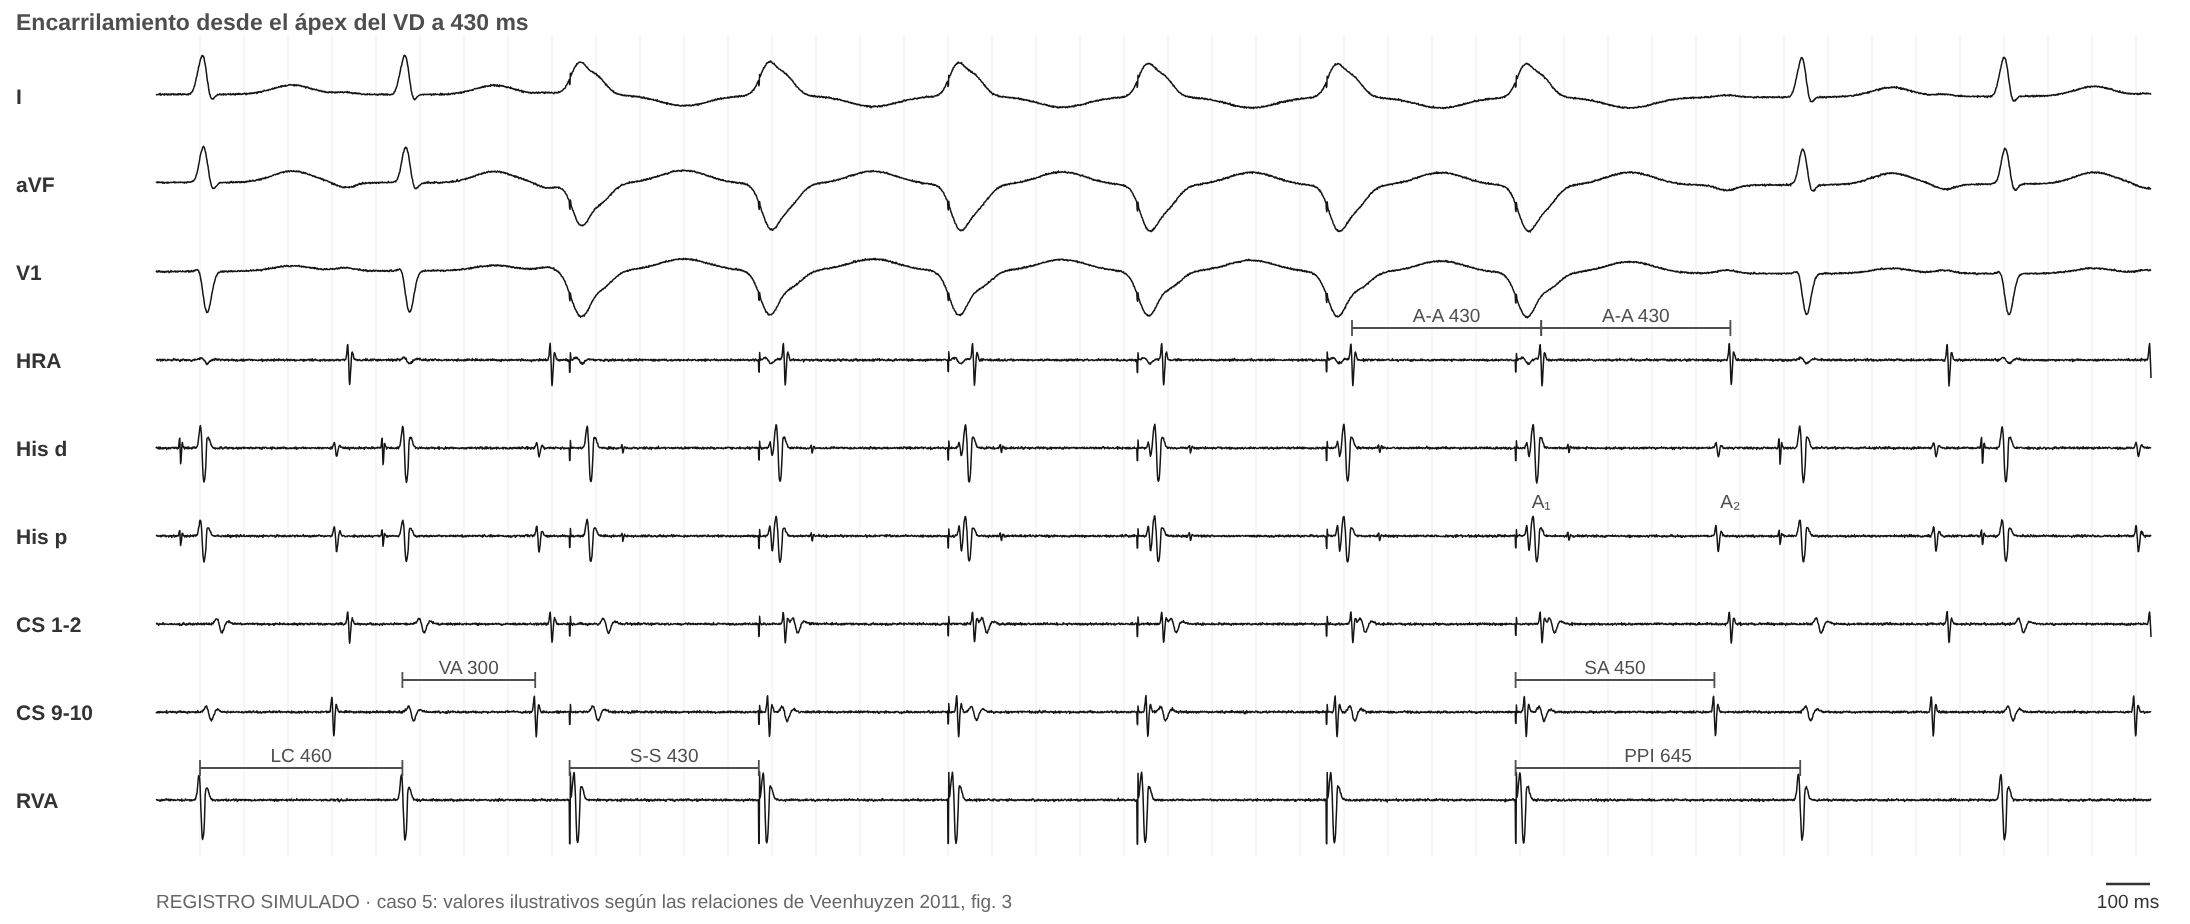
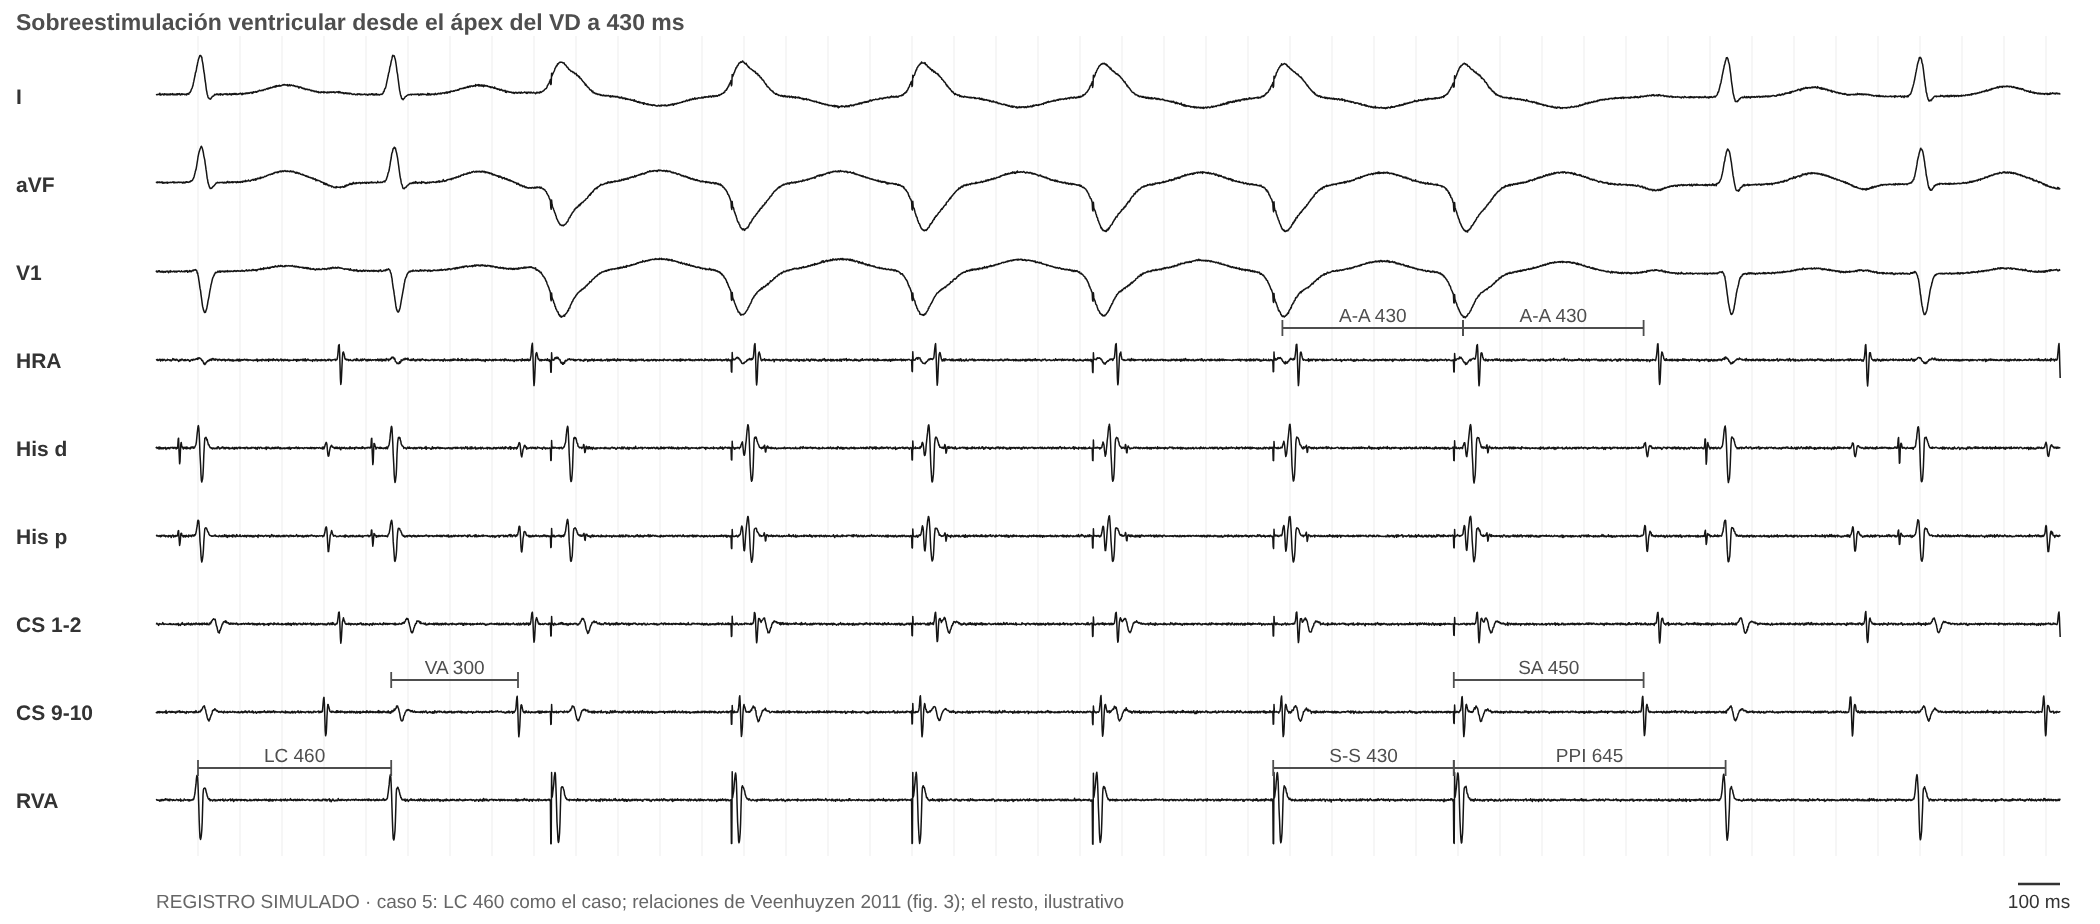
Caso 5 en el formato nuevo: todas las maniobras simuladas, valores durante el análisis y devolución paso a paso
Claude-Session: https://claude.ai/code/session_01Pw5rjt62KK5LeJZoEyFiaM

diff --git a/index.html b/index.html
@@ -313,7 +313,7 @@ dialog::backdrop{background:rgba(0,0,0,.45)}
 
 <div id="visor" hidden role="dialog" aria-label="Imagen ampliada"><div class="vbar"><button type="button" class="vm" aria-label="Achicar">−</button><button type="button" class="vp" aria-label="Agrandar">+</button><button type="button" class="vf">Ajustar</button><button type="button" class="vx">✕ Cerrar</button></div><div class="vbox"><img alt=""></div></div>
 <script>
-const APPV = 152;   // igual al número de CACHE_VERSION de sw.js
+const APPV = 153;   // igual al número de CACHE_VERSION de sw.js
 // ===============================================================================================================
 // Referencias. "propia" = artículo del material base; las demás se citan a través de esas revisiones.
 // ===============================================================================================================
@@ -1328,16 +1328,19 @@ const PCASOS = [
       eha: { v: 'EA desde el ostium del SC con el His refractario: el His siguiente sale a su tiempo (H-H 340).', r: 'No modifica el His: esperable en la TRAV.', u: 'util', img: 'figs/sim/prac/p4_eha.png' } },
     dx: ['trav_l'], ex: 'La activación excéntrica (SC 1-2) y el efecto Coumel (el VA se alarga 35 ms con BRI funcional) apuntan a una vía libre izquierda; la respuesta A-V, el VA linking y la terminación con una A excluyen la TA. Desde el ápex del VD el PPI−LC, el cPPI−LC y el SA−VA caen en rango de TRNAV por la distancia a la vía, y la para-Hisiana da nodal: son engañosas. El encarrilamiento diferencial (ΔVA −10) y la EV con His refractario desde el VI basal, que adelanta la A 20 ms, confirman la TRAV.', refs: ['veen11', 'knight00', 'veen12'] },
   { id: 'c5', t: 'TSV de RP largo con "A-A-V"', p: 'Mujer de 22 años con TSV de RP largo.',
-    ecg: 'figs/sim/casos/c5_ecg.jpg', ecgReal: true, basal: 'figs/sim/casos/c5_basal.png', ind: 'figs/sim/casos/c5_ind.png',
-    h: ['TSV de QRS angosto, LC 460 ms, relación 1:1', 'VA 300 ms (RP largo)', 'Activación concéntrica, más precoz en el ostium del SC'],
-    m: { vop: { r: 'Estimulando a 430 ms, después de la última espiga hay dos A antes del V. Entre ellas hay 430 ms y la secuencia es idéntica a la de la TSV.', u: 'clave', img: 'figs/sim/prac/p5_vop.png' },
-      medidas: { r: 'PPI 645 (PPI−LC 185), cPPI−LC 185, SA 450 (SA−VA 150).', u: 'clave', img: 'figs/sim/prac/p5_vop.png' },
-      ehr: { r: 'No modifica la A, aun adelantando el V local más de 60 ms cerca del ostium del SC.', u: 'clave', img: 'figs/sim/prac/p5_ehr.png' },
-      diff: { r: 'ΔVA (base − ápex) +30 ms.', u: 'util' },
-      aop: { r: 'ΔAH 55 ms; el AH de la TSV es más corto que en sinusal.', u: 'util' },
-      pre: { r: 'Doble fisiología nodal con salto AH de 65 ms.', u: 'util' },
-      ado: { r: 'La TSV termina con un V (bloqueo en el brazo retrógrado).' }, parahis: { r: 'Respuesta nodal.' } },
-    dx: ['trnav_a'], ex: 'Es un seudo A-A-V: el SA (450) supera la LC de estimulación (430), así que A₂ es el último A acelerado y la respuesta es A-V. PPI−LC > 125 y SA−VA > 85 con EV-HR negativa y ΔAH > 40 indican TRNAV atípica rápida-lenta.', refs: ['veen11', 'ho15', 'man95'] },
+    ecg: 'figs/sim/casos/c5_ecg.jpg', ecgReal: true, basal: 'figs/sim/casos/c5_basal.png', ind: 'figs/sim/casos/c5_ind.png', indt: 'Extraestímulo ventricular S1-S2 600-320',
+    h: ['TSV de QRS angosto, LC 460 ms, relación AV 1:1', 'Protocolo: extraestímulo ventricular desde el ápex del VD, S1-S2 600-320'],
+    hk: ['RP largo: VA 300 ms con la A más precoz en el ostium del SC. El diferencial es TRNAV atípica, TRAV por una vía septal decremental (PJRT) y TA septal baja.', 'Inducción con salto de la conducción retrógrada: con S2 320 el SA pasa de 120 a 300 ms y empieza la taquicardia con ese mismo VA (la retrógrada pasa a la vía lenta).'],
+    m: { vop: { v: 'Estimulando el ápex del VD a 430 ms las A se aceleran a 430 con la misma secuencia. SA 450 ms. Al cortar, después de la última espiga hay dos A (separadas por 430 ms) antes del V.', r: 'Seudo A-A-V: el SA (450) es mayor que la LC de estimulación (430), así que la primera de esas dos A es de la espiga anterior y la segunda es la última A acelerada. Contada desde la última A acelerada, la respuesta es A-V: excluye la TA.', u: 'clave', img: 'figs/sim/prac/p5_vop.png' },
+      medidas: { v: 'PPI 645 ms con LC 460 (PPI−LC 185). AH 115 en la TSV y 150 en el primer latido de retorno (cPPI−LC 150). SA 450 ms con VA 300 (SA−VA 150). HA 345 en la TSV y 370 estimulando (ΔHA +25).', r: 'PPI−LC > 115, cPPI−LC > 110, SA−VA > 85 y ΔHA > −10: el ventrículo no está en el circuito y His y A se activan en serie. TRNAV atípica, no PJRT.', u: 'clave', img: 'figs/sim/prac/p5_medidas.png' },
+      diff: { v: 'Encarrilando a 430 ms: SA 450 desde el ápex y SA 480 desde la base del VD (VA 300). ΔVA (base − ápex) +30 ms.', r: 'ΔVA > 20 ms: desde la base el frente tarda más en llegar a la A porque tiene que bajar a la red de Purkinje y subir por el His y el nodo. TRNAV atípica, no una vía septal.', u: 'clave', img: 'figs/sim/prac/p5_diff.png' },
+      ehr: { v: 'EV con el His refractario, 70 ms antes del V esperado: la A siguiente no cambia (A-A 460) y la taquicardia sigue.', r: 'Con el His refractario, la EV no mueve la A: no hay una vía septal en el circuito (en la PJRT la habría adelantado o retrasado, o habría terminado la taquicardia).', u: 'clave', img: 'figs/sim/prac/p5_ehr.png' },
+      aop: { v: 'Estimulando la AD alta a 420 ms los V se aceleran a 420 (V-V 420) con AH 170 (en la TSV, 115). Al cortar, el VA del primer latido es 300 ms, igual al de la TSV.', r: 'VA linking: la A de retorno depende del V; excluye la TA septal baja. ΔAH (estimulando − TSV) 55 ms > 40: TRNAV.', u: 'clave', img: 'figs/sim/prac/p5_aop.png' },
+      pre: { v: 'Extraestímulo auricular desde la AD alta: S1-S2 600-340 y 600-330.', r: 'AH 160 → 225 al acortar el S2 10 ms: salto de 65 ms, doble fisiología nodal.', u: 'util', img: 'figs/sim/prac/p5_pre.png' },
+      ado: { v: 'La taquicardia termina: el último latido es un V que no conduce a la A.', r: 'Termina con bloqueo en la vía lenta retrógrada: excluye la TA.', u: 'util', img: 'figs/sim/prac/p5_ado.png' },
+      parahis: { v: 'En sinusal, con captura del His: SA 90 y QRS 95. Solo V: SA 140 y QRS 150. Misma secuencia auricular.', r: 'Respuesta nodal: no hay una vía septal conduciendo en sinusal.', u: 'util', img: 'figs/sim/prac/p5_parahis.png' },
+      eha: { v: 'EA desde el ostium del SC con el His refractario: el His siguiente sale a su tiempo (H-H 460).', r: 'No modifica el His.', u: 'util', img: 'figs/sim/prac/p5_eha.png' } },
+    dx: ['trnav_a'], ex: 'La inducción con salto de la conducción retrógrada y el RP largo con la A precoz en el ostium del SC plantean TRNAV atípica, PJRT o TA. La respuesta es un seudo A-A-V (SA 450 > LC de estimulación 430): contada desde la última A acelerada es A-V, y el VA linking también excluye la TA. PPI−LC 185, SA−VA 150, ΔHA +25 y ΔVA +30 indican que el ventrículo no está en el circuito, y la EV con His refractario no mueve la A: TRNAV atípica.', refs: ['veen11', 'ho15', 'man95'] },
   { id: 'c6', t: 'Taquicardia incesante y miocardiopatía', p: 'Niño de 6 años con taquicardia incesante y FEVI de 35 %. ECG: P negativa en las inferiores, RP largo.',
     ecg: 'figs/sim/casos/c6_ecg.jpg', ecgReal: true, basal: 'figs/sim/casos/c6_basal.png', ind: 'figs/sim/casos/c6_ind.png',
     h: ['TSV de QRS angosto, LC 300 ms, relación 1:1', 'VA 190 ms, HA 235 ms', 'A más precoz en el ostium del SC'],

diff --git a/sw.js b/sw.js
@@ -1,6 +1,6 @@
 // Permite instalar la app y abrirla sin conexión. Primero la red (siempre lo último publicado); si no hay, la copia.
 // Si cambiás un archivo, subí CACHE_VERSION.
-const CACHE_VERSION = 'mef-v152';
+const CACHE_VERSION = 'mef-v153';
 const ARCHIVOS = ['./', './index.html', './manifest.json', './iconos/icon-192.png', './iconos/icon-512.png'];
 self.addEventListener('install', e => e.waitUntil(caches.open(CACHE_VERSION).then(c => c.addAll(ARCHIVOS)).then(() => self.skipWaiting())));
 self.addEventListener('activate', e => e.waitUntil(caches.keys().then(ks => Promise.all(ks.filter(k => k !== CACHE_VERSION).map(k => caches.delete(k)))).then(() => self.clients.claim())));

diff --git a/herramientas/simulador/cases6.py b/herramientas/simulador/cases6.py
@@ -489,6 +489,126 @@ S['p4_eha'] = dict(win=(-100, vs[-1] + 250), pxms=0.25, title='EA con His refrac
     cal=[(hs[2], hs[3], 'His d', f'H-H {LC4}'), (hs[3], hs[4], 'His d', f'H-H {LC4}')],
     marks=[(apb, 'V1', 'EA')])
 
+# =====================================================================================================
+# Caso 5 (TRNAV atípica rápida-lenta; LC 460 como el ECG real, VA 300, AH 115, A más precoz en el ostium del SC).
+# Relaciones de Veenhuyzen 2011, fig. 3: SA > LC de estimulación (seudo A-A-V), SA−VA 150, PPI−LC 185.
+SRC5 = 'caso 5: LC 460 como el caso; relaciones de Veenhuyzen 2011 (fig. 3); el resto, ilustrativo'
+LC5, VA5, AH5, SC5, SA5, PPI5 = 460, 300, 115, 430, 450, 645
+HAp5 = 370                              # HA estimulando (His retrógrado 80 ms después de la espiga)
+AHr5 = PPI5 - SA5 - HV                  # 150: AH del primer latido de retorno
+
+
+def vop5(title, med):
+    svt = [0, LC5]
+    sp = [svt[-1] + 380 + SC5 * k for k in range(6)]
+    A = [v + VA5 for v in svt] + [s + SA5 for s in sp]
+    ret = sp[-1] + PPI5
+    after = [ret, ret + LC5]
+    cal = [(svt[0], svt[1], 'RVA', f'LC {LC5}'), (svt[1], svt[1] + VA5 + 2, 'CS 9-10', f'VA {VA5}'), (sp[-2], sp[-1], 'RVA', f'S-S {SC5}'),
+           (sp[-1], A[-1] + 2, 'CS 9-10', f'SA {SA5}'), (sp[-1], ret + 2, 'RVA', f'PPI {PPI5}'),
+           (A[-3] + 2, A[-2] + 2, 'HRA', f'A-A {SC5}'), (A[-2] + 2, A[-1] + 2, 'HRA', f'A-A {SC5}')]
+    marks = []
+    if med:
+        cal = [c for c in cal if not c[3].startswith(('S-S', 'A-A'))]
+        cal += [(svt[1] - HV, svt[1] + VA5, 'His p', f'HA {HV + VA5}'), (sp[-1] + SA5 - HAp5, A[-1], 'His p', f'HA {HAp5}'),
+                (A[-1] + 2, ret - HV, 'His d', f'AH {AHr5}'), (A[0] + 2, svt[1] - HV, 'His d', f'AH {AH5}')]
+        marks = [(sp[-1] + 200, 'I', f'SA − VA = {SA5} − {VA5} = {SA5 - VA5} ms'), (sp[-1] + 200, 'aVF', f'PPI − LC = {PPI5} − {LC5} = {PPI5 - LC5} ms'),
+                 (sp[-1] + 200, 'V1', f'cPPI − LC = {PPI5 - LC5} − ({AHr5} − {AH5}) = {PPI5 - LC5 - AHr5 + AH5} ms · ΔHA = {HAp5} − {HV + VA5} = +{HAp5 - HV - VA5} ms')]
+    return dict(win=(-100, after[-1] + 340), pxms=0.21, title=title, channels=CH6, src=SRC5,
+        beats=[(v, 'n') for v in svt + after] + [(s, 'pa') for s in sp], spikes=sp,
+        atr=[(a, 'conc_cs', -1) for a in A + [v + VA5 for v in after]],
+        h_ante=[v - HV for v in svt + after], h_retro=[s + SA5 - HAp5 for s in sp], cal=cal, marks=marks)
+
+
+S['p5_vop'] = vop5('Sobreestimulación ventricular desde el ápex del VD a 430 ms', False)
+S['p5_medidas'] = vop5('Medidas sobre la sobreestimulación ventricular (ápex del VD a 430 ms): PPI, SA, AH y HA', True)
+
+
+def diff5(sa, typ, title):
+    svt = [0, LC5]
+    sp = [svt[-1] + 380 + SC5 * k for k in range(6)]
+    A = [v + VA5 for v in svt] + [s + sa for s in sp]
+    ret = sp[-1] + PPI5 + (sa - SA5)
+    return dict(win=(-100, ret + LC5 + 200), pxms=0.21, channels=CH6, title=title, spikes=sp, pace_ch='RVA', src=SRC5,
+        beats=[(v, 'n') for v in svt] + [(s, typ) for s in sp] + [(ret, 'n'), (ret + LC5, 'n')],
+        atr=[(a, 'conc_cs', -1) for a in A] + [(ret + VA5, 'conc_cs', -1), (ret + LC5 + VA5, 'conc_cs', -1)],
+        h_ante=[v - HV for v in svt] + [ret - HV, ret + LC5 - HV], h_retro=[s + sa - HAp5 for s in sp],
+        cal=[(svt[1], svt[1] + VA5 + 2, 'CS 9-10', f'VA {VA5}'), (sp[-1], A[-1] + 2, 'CS 9-10', f'SA {sa}'), (svt[0], svt[1], 'RVA', f'LC {LC5}')])
+
+
+S['p5_diff_a'] = diff5(450, 'pa', 'A. Encarrilamiento desde el ápex del VD (430 ms)')
+S['p5_diff_b'] = diff5(480, 'pb', 'B. Encarrilamiento desde la base del VD (430 ms)')
+
+# EV con His refractario (V local del ostium del SC adelantado > 60 ms): la A no cambia.
+k = 3
+vs = [i * LC5 for i in range(k)]
+h_exp = k * LC5 - HV
+spk = h_exp - 25
+A = [v + VA5 for v in vs] + [k * LC5 + VA5]
+after = [k * LC5 + LC5, k * LC5 + 2 * LC5]
+A += [v + VA5 for v in after]
+S['p5_ehr'] = dict(win=(-80, after[-1] + 200), pxms=0.25, title='EV con His refractario durante la taquicardia', channels=CH6, src=SRC5,
+    spikes=[spk], pace_ch='RVA', beats=[(v, 'n') for v in vs] + [(spk, 'pa')] + [(v, 'n') for v in after],
+    atr=[(a, 'conc_cs', -1) for a in A], h_ante=[v - HV for v in vs] + [h_exp] + [v - HV for v in after],
+    cal=[(A[k - 2] + 2, A[k - 1] + 2, 'CS 9-10', f'A-A {LC5}'), (A[k - 1] + 2, A[k] + 2, 'CS 9-10', f'A-A {LC5}'),
+         (spk, k * LC5, 'RVA', f'EV {LC5 * k - spk} ms antes del V')],
+    marks=[(spk, 'V1', 'EV'), (h_exp, 'His p', 'H')])
+
+# Estudio basal: extraestímulo auricular; S2 10 ms más corto → el AH salta 65 ms (sin eco).
+def salto5(s2, ah2, title, lab):
+    sp = [0, 600, 600 + s2]
+    hs = [s + 28 + a for s, a in zip(sp, [90, 90, ah2])]
+    vs = [h + HV for h in hs]
+    return dict(win=(-80, 1650), pxms=0.40, title=title, channels=CH6, src=SRC5,
+        beats=[(v, 'n') for v in vs], aspikes=sp, apace_ch='HRA', atr=[(s + 5, 'sinus', 1) for s in sp], h_ante=hs,
+        cal=[(sp[1], sp[2], 'HRA', f'S2 {s2}'), (sp[1] + 28, hs[1], 'His d', 'AH 90'), (sp[2] + 28, hs[2], 'His d', lab)])
+
+
+S['p5_pre_a'] = salto5(340, 160, 'A. Extraestímulo auricular S1-S2 600-340', 'AH 160')
+S['p5_pre_b'] = salto5(330, 225, 'B. S2 10 ms más corto: S1-S2 600-330', 'AH 225')
+
+# Sobreestimulación auricular desde la AD alta a 420: AH 170 (TSV 115, ΔAH 55); al cortar, VA 300 como en la TSV.
+AHs5 = 170
+vs = [0, LC5]
+A = [v + VA5 for v in vs]
+sp = [A[-1] + 300 + 420 * k for k in range(5)]
+pv = [s + 28 + AHs5 + HV for s in sp]
+vs2 = [pv[-1] + LC5]
+S['p5_aop'] = dict(win=(-80, vs2[-1] + 380), pxms=0.21, title='Sobreestimulación auricular desde la AD alta a 420 ms', channels=CH6, src=SRC5,
+    beats=[(v, 'n') for v in vs + pv + vs2], aspikes=sp, apace_ch='HRA',
+    atr=[(a, 'conc_cs', -1) for a in A] + [(s + 5, 'sinus', 1) for s in sp] + [(v + VA5, 'conc_cs', -1) for v in [pv[-1]] + vs2],
+    h_ante=[v - HV for v in vs + pv + vs2],
+    cal=[(vs[0], vs[1], 'RVA', f'V-V {LC5}'), (A[0] + 2, vs[1] - HV, 'His d', f'AH {AH5}'), (sp[-2], sp[-1], 'HRA', 'S-S 420'),
+         (pv[-2], pv[-1], 'RVA', 'V-V 420'), (sp[-1] + 28, pv[-1] - HV, 'His d', f'AH {AHs5}'), (pv[-1], pv[-1] + VA5 + 2, 'CS 9-10', f'VA {VA5}')])
+
+# Adenosina: termina con un V (bloqueo en la vía lenta retrógrada).
+vs = [0, LC5, 2 * LC5, 3 * LC5]
+A = [v + VA5 for v in vs[:3]]
+S['p5_ado'] = dict(win=(-80, vs[-1] + 700), pxms=0.22, title='Adenosina IV durante la taquicardia', channels=CH6, src=SRC5,
+    beats=[(v, 'n') for v in vs], atr=[(a, 'conc_cs', -1) for a in A], h_ante=[v - HV for v in vs],
+    cal=[(vs[0], vs[1], 'RVA', f'LC {LC5}'), (vs[1], A[1] + 2, 'CS 9-10', f'VA {VA5}')],
+    marks=[(vs[3] + 120, 'aVF', 'último: V sin A')])
+
+# Para-Hisiana en sinusal: SA 90 → 140 en el His, misma secuencia (nodal).
+sp = [0, 650, 1300, 1950]
+cap = [True, False, True, False]
+S['p5_parahis'] = dict(win=(-80, 2300), pxms=0.32, title='Estimulación para-Hisiana en ritmo sinusal', channels=CH6, src=SRC5,
+    spikes=sp, pace_ch='His p', beats=[(s + HV if c else s, 'n' if c else 'pa') for s, c in zip(sp, cap)],
+    atr=[(s + (90 if c else 140), 'conc_his', -1) for s, c in zip(sp, cap)],
+    cal=[(sp[0], sp[0] + 92, 'His d', 'SA 90'), (sp[1], sp[1] + 142, 'His d', 'SA 140'), (sp[2] + HV, sp[2] + HV + 95, 'RVA', 'QRS 95'), (sp[3], sp[3] + 150, 'RVA', 'QRS 150')],
+    marks=[(sp[0] + 30, 'V1', 'His + V'), (sp[1] + 40, 'V1', 'solo V')])
+
+# EA con His refractario desde el ostium del SC: el His siguiente sale a su tiempo.
+hs = [i * LC5 - HV for i in range(5)]
+apb = hs[2] + 10
+vs = [h + HV for h in hs]
+A = [v + VA5 for k2, v in enumerate(vs) if k2 != 2]
+S['p5_eha'] = dict(win=(-100, vs[-1] + 250), pxms=0.25, title='EA con His refractario desde el ostium del SC', channels=CH6, src=SRC5,
+    beats=[(x, 'n') for x in vs], aspikes=[apb], apace_ch='CS 9-10',
+    atr=[(a, 'conc_cs', -1) for a in A] + [(apb + 4, 'conc_cs', 1)], h_ante=hs,
+    cal=[(hs[1], hs[2], 'His d', f'H-H {LC5}'), (hs[2], hs[3], 'His d', f'H-H {LC5}')],
+    marks=[(apb, 'V1', 'EA')])
+
 if __name__ == '__main__':
     for k in (sys.argv[3:] or S):
         render(S[k], f'{OUT}/{k}.svg')

diff --git a/herramientas/simulador/practica.py b/herramientas/simulador/practica.py
@@ -12,7 +12,7 @@ from simlib import render
 S = {**cases.S, **cases2.S, **cases3.S, **cases4.S}
 
 USADAS = ['arias10', 'burri12', 'ho15', 'knight99', 'michaud01', 'p10_ehr', 'p10_vop', 'p11_adec', 'p11_anillo', 'p11_eapre',
-          'p12_eapre', 'p12_pre', 'p13_abll', 'p2_ehr', 'p3_ado', 'p3_vop', 'p4old_ehr_a', 'p4old_ehr_b', 'p4old_pre', 'p5_ehr', 'p6_aop',
+          'p12_eapre', 'p12_pre', 'p13_abll', 'p2_ehr', 'p3_ado', 'p3_vop', 'p4old_ehr_a', 'p4old_ehr_b', 'p4old_pre', 'p5old_ehr', 'p6_aop',
           'p6_ehr', 'p8_verap_a', 'p8_verap_b', 'p9_diff_a', 'p9_diff_b', 'p9_ehr', 'tvf_post', 'veen11_fusion', 'veen11_pseudo', 'veen12_jt_a', 'veen12_jt_b']
 
 TITULOS = {'veen12_jt_a': 'A. EA con His refractario (ostium del SC)', 'veen12_jt_b': 'B. EA precoz (AD alta)','veen11_pseudo': 'Encarrilamiento desde el ápex del VD','p4old_ehr_a': 'A. EV-HR desde el ápex del VD', 'p4old_ehr_b': 'B. EV-HR desde el VI basal (rama del SC)',
@@ -25,7 +25,7 @@ RENOMBRAR = {'LC TSV 430': 'LC 430', 'VA': 'VA 120', 'SA': 'SA 160', 'PPI': 'PPI
 # Calibres agregados: la LC (o el A-A) de la TSV, para que se pueda calcular
 EXTRA = {'p10_vop': [(0, 390, 'RVA', 'LC 390')], 'p10_ehr': [(0, 390, 'RVA', 'LC 390')],
          'p11_eapre': [], 'p12_eapre': []}
-EHR = ['p2_ehr', 'p4old_ehr_a', 'p4old_ehr_b', 'p5_ehr', 'p6_ehr', 'p9_ehr']   # se agrega el A-A de la TSV
+EHR = ['p2_ehr', 'p4old_ehr_a', 'p4old_ehr_b', 'p5old_ehr', 'p6_ehr', 'p9_ehr']   # se agrega el A-A de la TSV
 
 
 def limpiar(k, sc):

diff --git a/herramientas/simulador/cases4.py b/herramientas/simulador/cases4.py
@@ -33,7 +33,7 @@ def ehr(LC, VA, seq, d, k_spike=3, early=0, typ='pa', pace='RVA', n_after=2, tit
 S['p2old_ehr'] = ehr(280, 110, 'conc_cs', 25, src='caso 2 (didáctico): LC 280, VA 110; la EV con His refractario adelanta la A 25 ms',
                   lab='A-A 255 (−25)')
 # Caso 5: TRNAV atípica, LC 380, VA 265; EV-HR adelanta el V local > 60 ms y no cambia la A.
-S['p5_ehr'] = ehr(460, 300, 'conc_cs', 0, early=25, src='caso 5 (LC 460 como el ECG real, VA 300); EV-HR con el V local adelantado > 60 ms, sin cambio de la A',
+S['p5old_ehr'] = ehr(460, 300, 'conc_cs', 0, early=25, src='caso 5 (LC 460 como el ECG real, VA 300); EV-HR con el V local adelantado > 60 ms, sin cambio de la A',
                   lab='A-A 460 (sin cambio)')
 # Caso 6: PJRT, LC 521, VA 290; EV-HR retrasa la A 20 ms.
 S['p6_ehr'] = ehr(300, 190, 'conc_cs', -20, src='caso 6 (LC 300 como el ECG real, VA 190); EV-HR que retrasa la A 20 ms', lab='A-A 320 (+20)')

diff --git a/herramientas/simulador/cases5.py b/herramientas/simulador/cases5.py
@@ -245,7 +245,7 @@ sp = [svt[-1] + 380 + SC5 * k for k in range(6)]
 A = [v + VA5 for v in svt] + [s + SA5 for s in sp]
 ret = sp[-1] + PPI5
 after = [ret, ret + LC5]
-S['p5_vop'] = dict(win=(-100, after[-1] + 340), pxms=0.22, title='Encarrilamiento desde el ápex del VD a 430 ms', channels=CH6,
+S['p5old_vop'] = dict(win=(-100, after[-1] + 340), pxms=0.22, title='Encarrilamiento desde el ápex del VD a 430 ms', channels=CH6,
     src='caso 5: valores ilustrativos según las relaciones de Veenhuyzen 2011, fig. 3',
     beats=[(v, 'n') for v in svt + after] + [(s, 'pa') for s in sp], spikes=sp,
     atr=[(a, 'conc_cs', -1) for a in A + [v + VA5 for v in after]],
